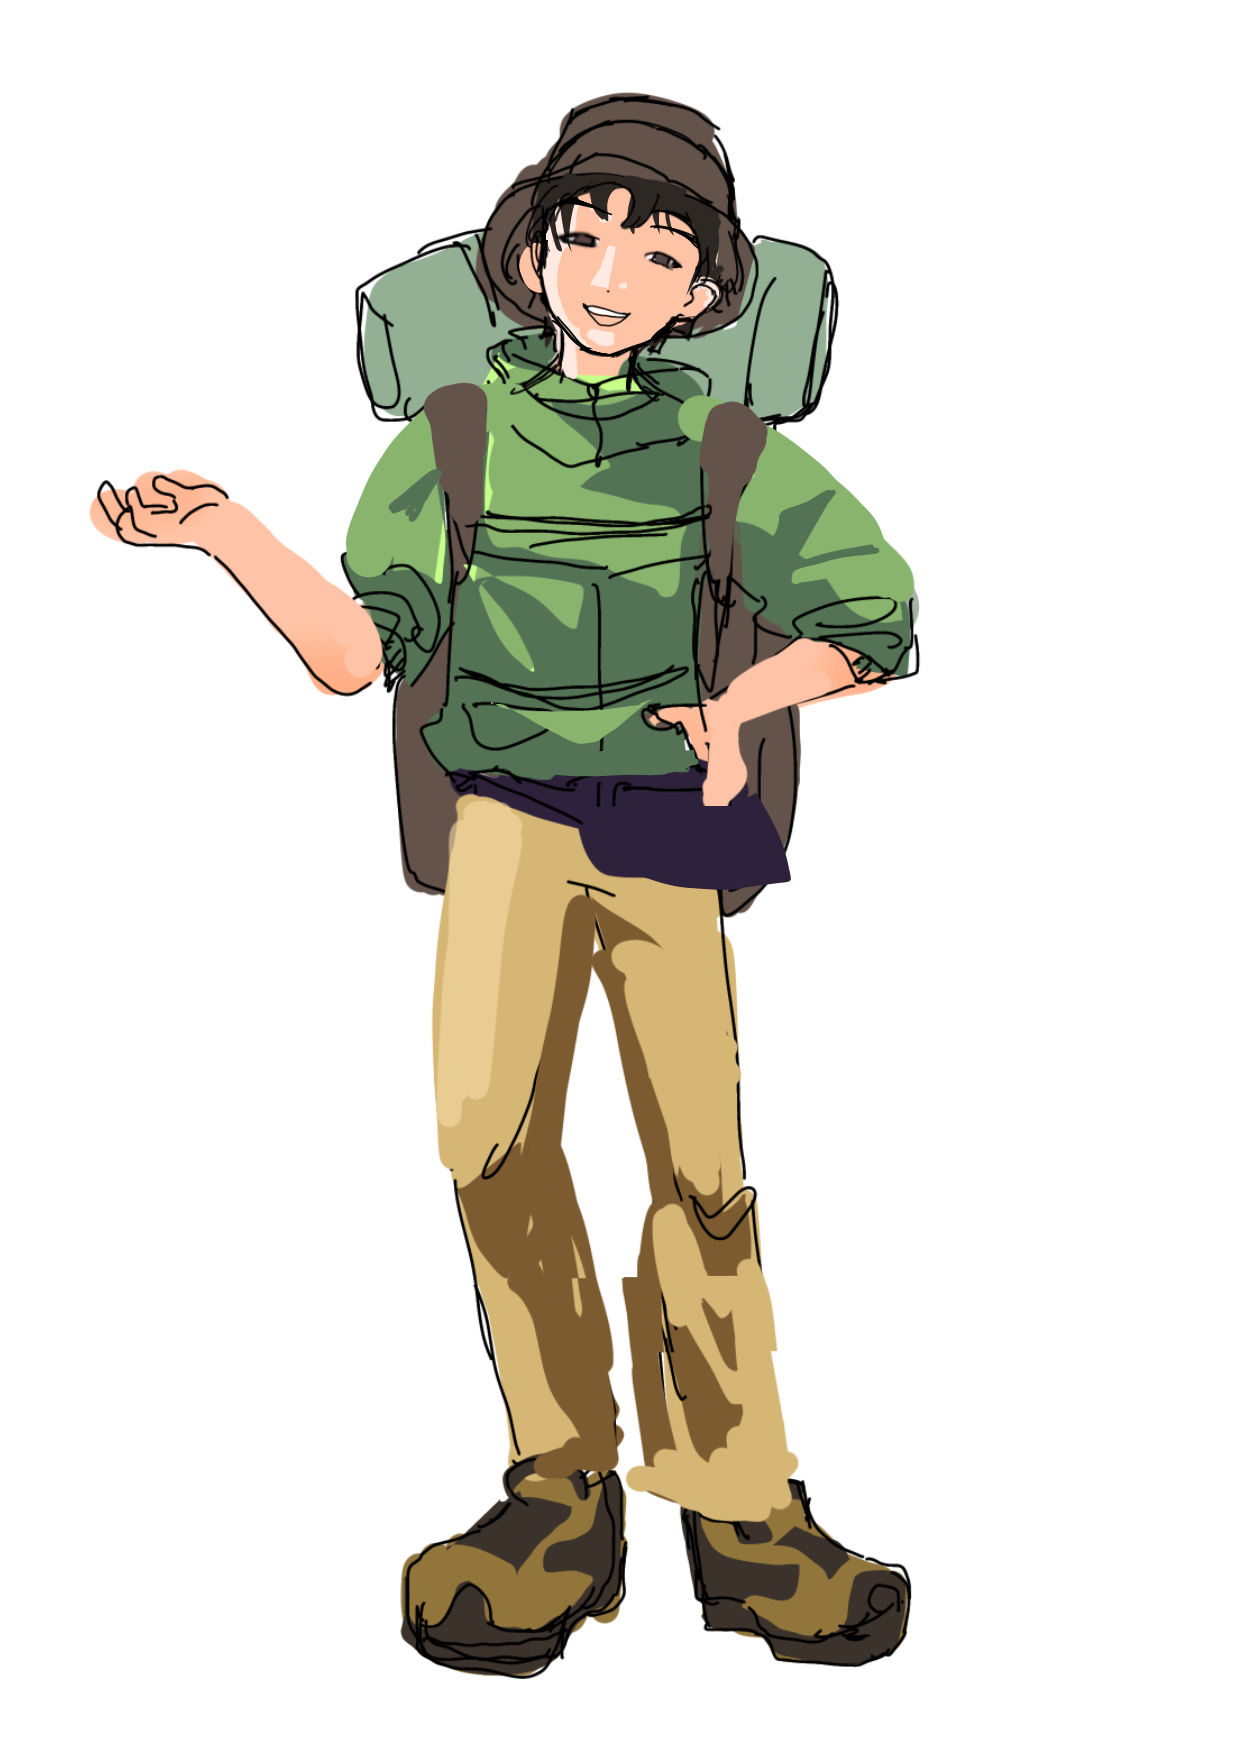
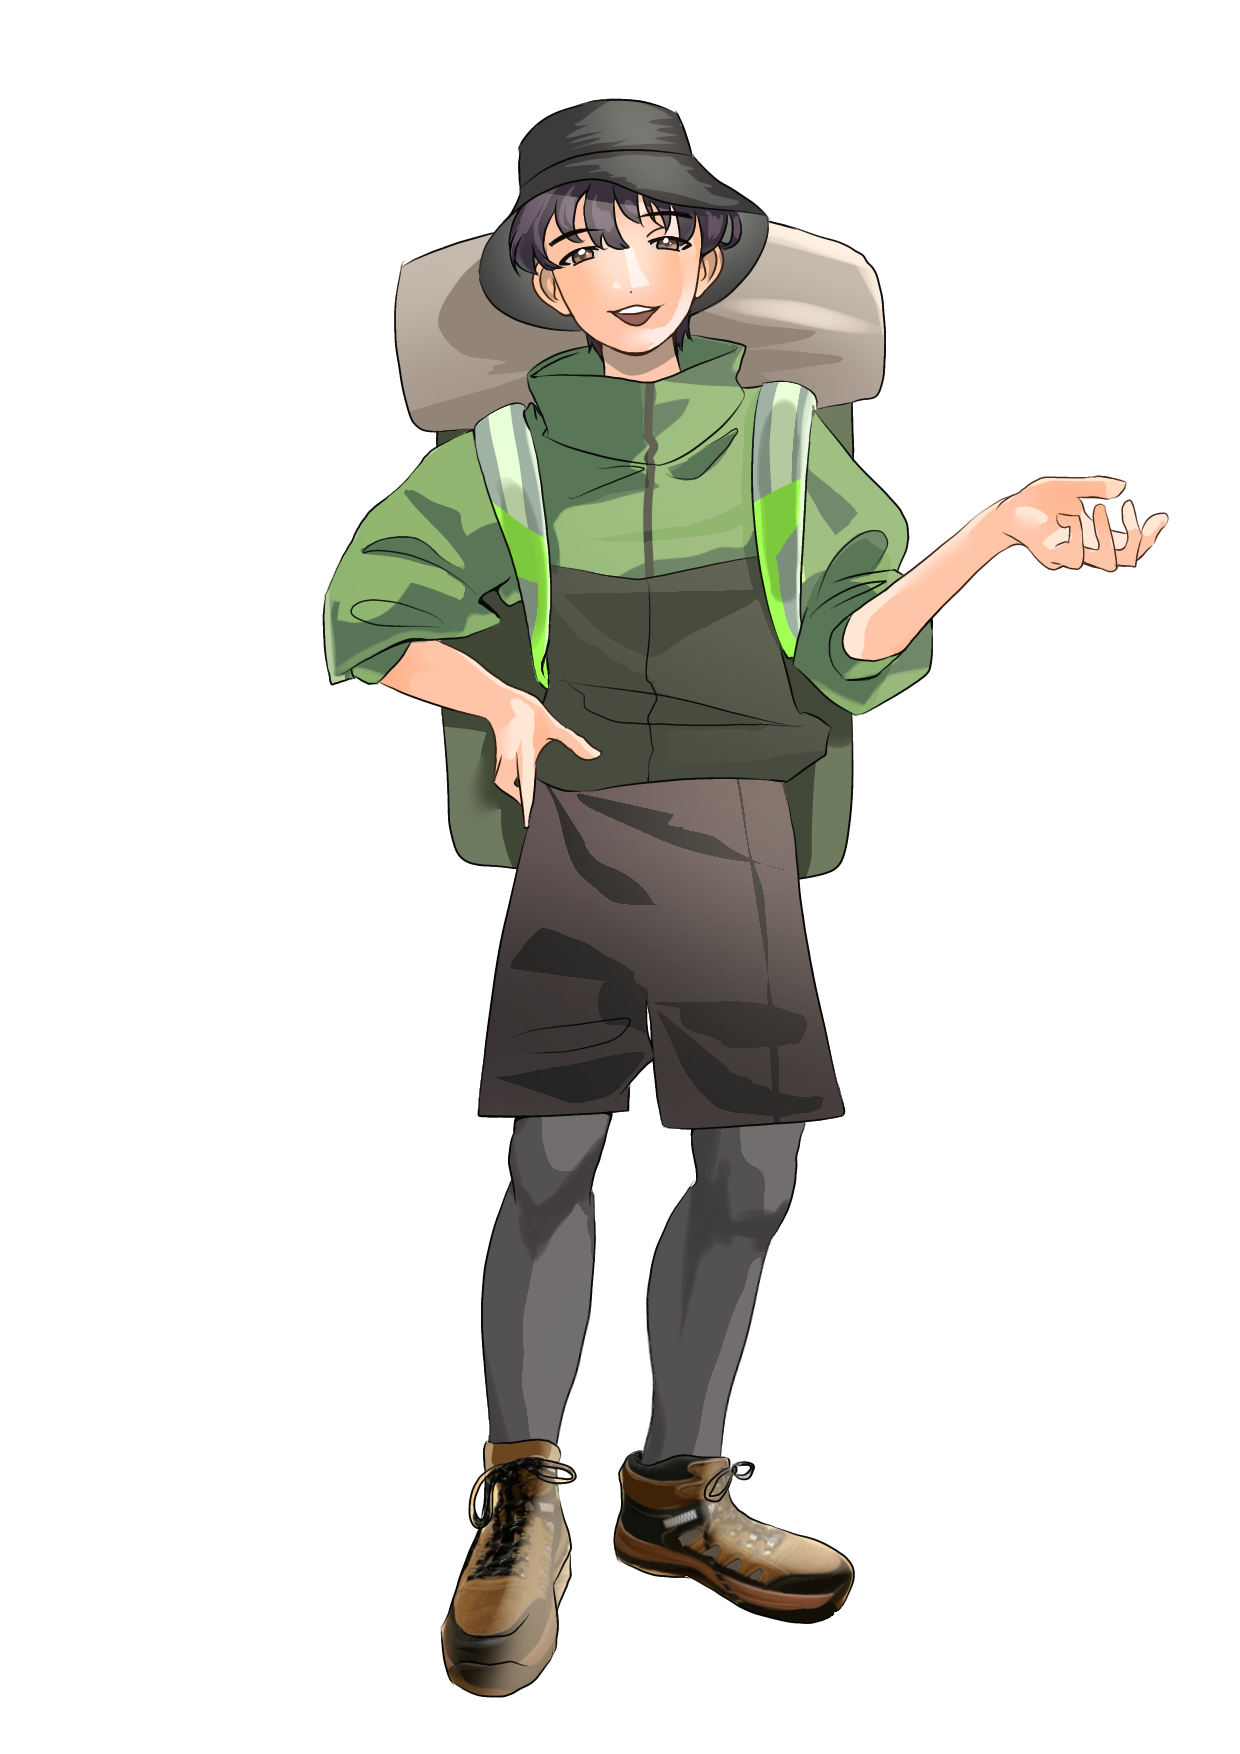
Update finished character artwork and add reaction portraits

Changed region(s): [[0.0613, 0.0308, 0.95, 0.9852]]

diff --git a/game-data.js b/game-data.js
@@ -34,6 +34,7 @@ window.GAME_DATA = {
       tag: "婚活しに来た人。まさに普通",
       portrait: "sato",
       standingImage: "sato-standing.png?v=20261016-finished-art",
+      upStandingImage: "sato-standing-up.png?v=20261019-finished-art",
       downStandingImage: "sato-standing-down.png?v=20261016",
       color: "#d84f4f",
       stats: ["佐藤濃度 92%", "ラーメン耐性 高", "Netflix 未加入"],
@@ -110,7 +111,9 @@ window.GAME_DATA = {
       fullName: "勅使河原 俊紀",
       tag: "婚活しに来た人。冒険家",
       portrait: "teshigawara",
-      standingImage: "teshigawara-standing.png?v=20261010",
+      standingImage: "teshigawara-standing.png?v=20261019-finished-art",
+      upStandingImage: "teshigawara-standing-up.png?v=20261019-finished-art",
+      downStandingImage: "teshigawara-standing-down.png?v=20261019-finished-art",
       color: "#2c7f68",
       stats: ["冒険値 MAX", "アマゾン依存度 低", "海外経験 あり"],
       opening: "初めまして。私は勅使河原俊紀です。",
@@ -186,6 +189,8 @@ window.GAME_DATA = {
       tag: "承認欲求と普通のあいだで揺れる人",
       portrait: "ado",
       standingImage: "ado-standing.png?v=20261010",
+      upStandingImage: "ado-standing-up.png?v=20261019-finished-art",
+      downStandingImage: "ado-standing-down.png?v=20261019-finished-art",
       color: "#5a63d8",
       stats: ["本人度 0%", "普通への憧れ 高", "歌唱予定 なし"],
       opening: "はじめまして。",

diff --git a/app.js b/app.js
@@ -300,7 +300,8 @@ function chooseAnswer(choice) {
 
   const isDown = !choice.correct && choice.mood !== 0;
   const prefix = choice.correct ? "好感度アップ" : isDown ? "好感度ダウン" : "反応は普通";
-  setStandingImage(isDown && state.character.downStandingImage || state.character.standingImage);
+  const reactionImage = choice.correct ? state.character.upStandingImage : isDown ? state.character.downStandingImage : null;
+  setStandingImage(reactionImage || state.character.standingImage);
   setDialogue({
     speaker: state.character.name,
     message: choice.reaction,

diff --git a/index.html b/index.html
@@ -71,7 +71,7 @@
 
     </main>
 
-    <script src="game-data.js?v=20261017-sato-ending-line-break"></script>
-    <script src="app.js?v=20261017-pending-life-loss"></script>
+    <script src="game-data.js?v=20261019-finished-portraits"></script>
+    <script src="app.js?v=20261019-reaction-portraits"></script>
   </body>
 </html>

diff --git a/otome-original.html b/otome-original.html
@@ -71,7 +71,7 @@
 
     </main>
 
-    <script src="game-data.js?v=20261017-sato-ending-line-break"></script>
-    <script src="app.js?v=20261017-pending-life-loss"></script>
+    <script src="game-data.js?v=20261019-finished-portraits"></script>
+    <script src="app.js?v=20261019-reaction-portraits"></script>
   </body>
 </html>

diff --git a/otome.html b/otome.html
@@ -76,7 +76,7 @@
 
     </main>
 
-    <script src="game-data.js?v=20261017-sato-ending-line-break"></script>
-    <script src="app.js?v=20261017-pending-life-loss"></script>
+    <script src="game-data.js?v=20261019-finished-portraits"></script>
+    <script src="app.js?v=20261019-reaction-portraits"></script>
   </body>
 </html>
